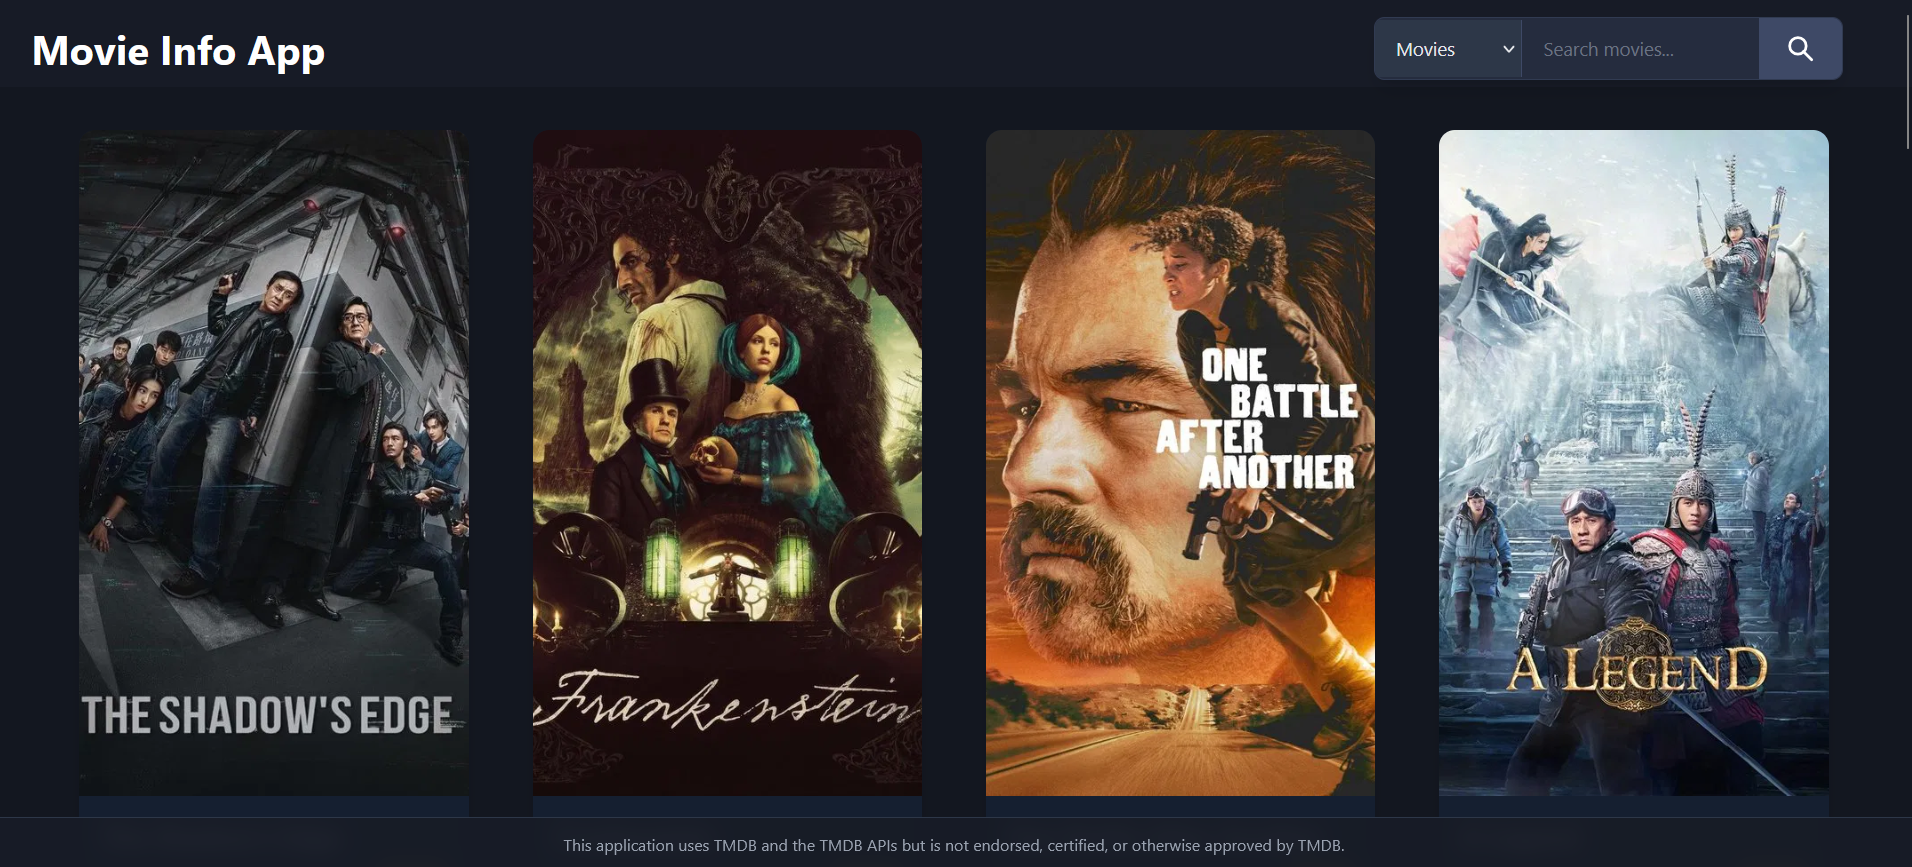
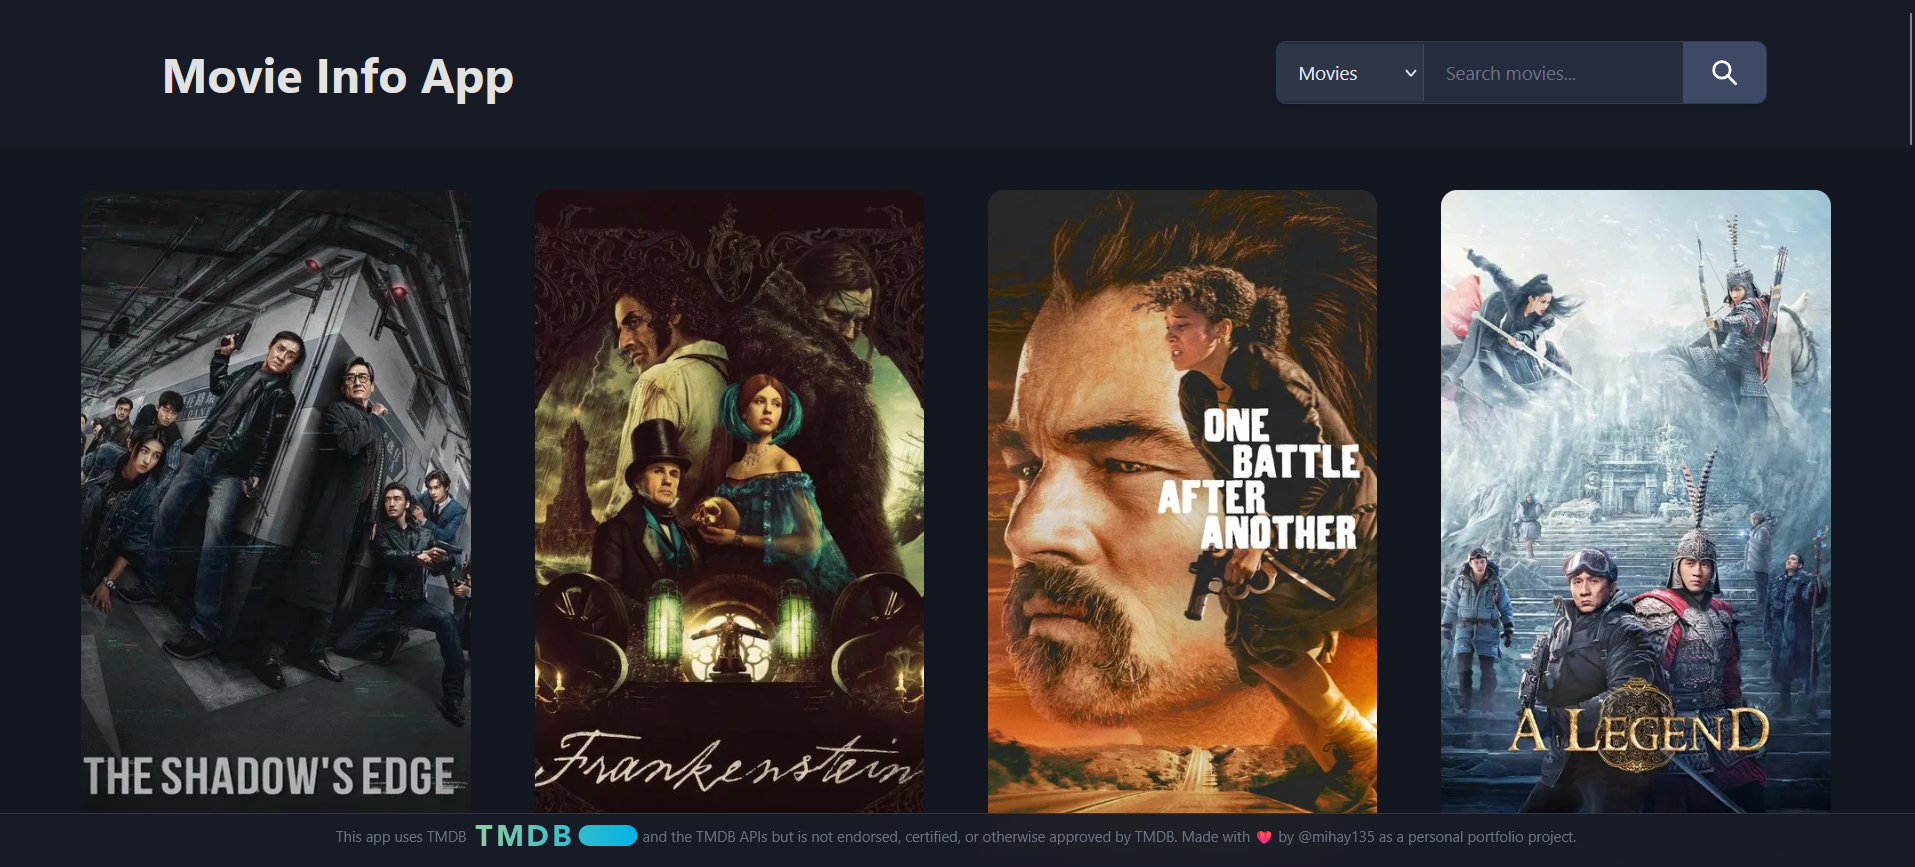
Update Screenshots, Fix Navbar on Mobile landscape, New Pagination Component
Update Screenshots with newer versions of footer and navbar.
Fix Navbar on Mobile landscape to show with bigger width.
New Pagination Component that extrapolates the code from MovieCardsContainter.
Added TMDB logo to footer to comply with API Terms of use.

diff --git a/src/components/MovieCardsContainer.tsx b/src/components/MovieCardsContainer.tsx
@@ -4,6 +4,7 @@ import MovieCard from "./MovieCard";
 import MovieModal from "./MovieModal";
 import axios from "axios";
 import type { TMDBMovie, TMDBShow, TMDBResponse } from "../types/tmdb";
+import Pagination from "./Pagination";
 
 // Bearer token loaded from .env
 const TMDB_BEARER_TOKEN = import.meta.env.VITE_TMDB_BEARER_TOKEN;
@@ -119,64 +120,6 @@ export default function MovieCardsContainer({
           {selectedItem && <MovieModal item={selectedItem} onClose={() => setSelectedItem(null)} />}
         </>
       )}
-    </div>
-  );
-}
-
-//PAGINATION COMPONENT
-function Pagination({
-  page,
-  totalPages,
-  onPageChange,
-}: {
-  page: number;
-  totalPages: number;
-  onPageChange: (p: number) => void;
-}) {
-  const getPages = () => {
-    const delta = 2;
-    const range = [];
-    const min = Math.max(2, page - delta);
-    const max = Math.min(totalPages - 1, page + delta);
-
-    for (let i = min; i <= max; i++) range.push(i);
-    if (page - delta > 2) range.unshift("...");
-    if (page + delta < totalPages - 1) range.push("...");
-    range.unshift(1);
-    if (totalPages > 1) range.push(totalPages);
-    return range;
-  };
-
-  return (
-    <div className="flex gap-3 items-center text-white flex-wrap justify-center">
-      <button
-        onClick={() => onPageChange(page - 1)}
-        disabled={page === 1}
-        className="px-5 py-3 bg-[#252c3e] rounded-lg disabled:opacity-50 hover:bg-[#3e4966] transition"
-      >
-        ← Prev
-      </button>
-
-      {getPages().map((p, i) => (
-        <button
-          key={i}
-          onClick={() => typeof p === "number" && onPageChange(p)}
-          disabled={p === "..."}
-          className={`px-4 py-3 rounded-lg min-w-12 ${
-            p === page ? "bg-[#3e4966] font-bold" : p === "..." ? "cursor-default" : "bg-[#252c3e] hover:bg-[#3e4966]"
-          } transition`}
-        >
-          {p}
-        </button>
-      ))}
-
-      <button
-        onClick={() => onPageChange(page + 1)}
-        disabled={page === totalPages}
-        className="px-5 py-3 bg-[#252c3e] rounded-lg disabled:opacity-50 hover:bg-[#3e4966] transition"
-      >
-        Next →
-      </button>
     </div>
   );
 }

diff --git a/src/components/Pagination.tsx b/src/components/Pagination.tsx
@@ -1,0 +1,58 @@
+import type { FC } from "react";
+
+interface PaginationProps {
+  page: number;
+  totalPages: number;
+  onPageChange: (page: number) => void;
+}
+
+const Pagination: FC<PaginationProps> = ({ page, totalPages, onPageChange }) => {
+  const getPages = () => {
+    const delta = 2;
+    const range: (number | string)[] = [];
+    const min = Math.max(2, page - delta);
+    const max = Math.min(totalPages - 1, page + delta);
+
+    for (let i = min; i <= max; i++) range.push(i);
+    if (page - delta > 2) range.unshift("...");
+    if (page + delta < totalPages - 1) range.push("...");
+    range.unshift(1);
+    if (totalPages > 1) range.push(totalPages);
+    return range;
+  };
+
+  return (
+    <div className="flex gap-3 items-center text-white flex-wrap justify-center">
+      <button
+        onClick={() => onPageChange(page - 1)}
+        disabled={page === 1}
+        className="px-5 py-3 bg-[#252c3e] rounded-lg disabled:opacity-50 hover:bg-[#3e4966] transition"
+      >
+        Prev
+      </button>
+
+      {getPages().map((p, i) => (
+        <button
+          key={i}
+          onClick={() => typeof p === "number" && onPageChange(p)}
+          disabled={p === "..."}
+          className={`px-4 py-3 rounded-lg min-w-12 transition ${
+            p === page ? "bg-[#3e4966] font-bold" : p === "..." ? "cursor-default" : "bg-[#252c3e] hover:bg-[#3e4966]"
+          }`}
+        >
+          {p}
+        </button>
+      ))}
+
+      <button
+        onClick={() => onPageChange(page + 1)}
+        disabled={page === totalPages}
+        className="px-5 py-3 bg-[#252c3e] rounded-lg disabled:opacity-50 hover:bg-[#3e4966] transition"
+      >
+        Next
+      </button>
+    </div>
+  );
+};
+
+export default Pagination;

diff --git a/src/components/Footer.tsx b/src/components/Footer.tsx
@@ -3,12 +3,28 @@ import type { ReactElement } from "react";
 
 export default function Footer(): ReactElement {
   return (
-    <div className="fixed bottom-0 left-0 right-0 z-40 bg-[#171b26]/95 backdrop-blur-sm border-t border-[#2d3748]">
-      <div className="px-4 py-3 text-center">
-        <p className="text-[12px] leading-tight text-gray-400 max-w-full mx-auto px-2">
-          This application uses TMDB and the TMDB APIs but is not endorsed, certified, or otherwise approved by TMDB.
-        </p>
-      </div>
-    </div>
+    <footer className=" mt-12 py-2 px-2 text-center text-gray-500 text-[11px] fixed bottom-0 left-0 right-0 z-40 bg-[#171b26]/95 backdrop-blur-sm border-t border-[#2d3748]">
+      <p className="mb-2">
+        This app uses{" "}
+        <a
+          href="https://www.themoviedb.org/"
+          target="_blank"
+          rel="noopener noreferrer"
+          className="inline-flex items-center gap-1.5 hover:text-cyan-400 transition"
+        >
+          TMDB
+          <img
+            src="https://www.themoviedb.org/assets/2/v4/logos/v2/blue_short-8e7b30f73a4020692ccca9c88bafe5dcb6f8a62a4c6bc55cd9ba82bb2cd95f6c.svg"
+            alt="TMDB Logo"
+            className="h-4 inline-block"
+          />
+        </a>{" "}
+        and the TMDB APIs but is not endorsed, certified, or otherwise approved by TMDB. Made with ❤ by{" "}
+        <a href="https://github.com/mihay135" className="hover:text-white transition">
+          @mihay135
+        </a>{" "}
+        as a personal portfolio project.
+      </p>
+    </footer>
   );
 }

diff --git a/src/components/Navbar.tsx b/src/components/Navbar.tsx
@@ -1,6 +1,5 @@
 import type { ReactElement } from "react";
 import NavbarTitle from "./NavbarTitle";
-import FillerDiv from "./FillerDiv";
 import NavbarSearch from "./NavbarSearch";
 
 interface NavbarProps {
@@ -10,15 +9,17 @@ interface NavbarProps {
 
 export default function Navbar({ onSearch, onHomeClick }: NavbarProps): ReactElement {
   return (
-    <div className="md:pt-2 w-full bg-[#171b26] sticky top-0 z-50 flex flex-col sm:flex-row items-center justify-between px-4 py-3 sm:py-0 sm:h-[10vh] gap-6 sm:gap-0">
-      <div className="w-full sm:w-auto flex justify-between sm:justify-start items-center">
-        <NavbarTitle onHomeClick={onHomeClick} />
-        <div className="sm:hidden" />
+    <header className="py-6 w-full bg-[#171b26] sticky top-0 z-10">
+      <div className="max-w-7xl mx-auto px-4 sm:px-6 lg:px-8">
+        <div className="flex flex-col sm:flex-row sm:items-center sm:justify-between gap-6">
+          {/* App Title*/}
+          <NavbarTitle onHomeClick={onHomeClick} />
+          {/* Search Bar*/}
+          <div className="w-full sm:w-full md:w-auto md:max-w-md lg:max-w-lg xl:max-w-xl">
+            <NavbarSearch onSearch={onSearch} />
+          </div>
+        </div>
       </div>
-      <div className="w-full sm:w-[25%] sm:ml-10 lg:ml-[55%]">
-        <NavbarSearch onSearch={onSearch} />
-      </div>
-      <FillerDiv />
-    </div>
+    </header>
   );
 }

diff --git a/src/components/NavbarTitle.tsx b/src/components/NavbarTitle.tsx
@@ -4,10 +4,10 @@ interface NavbarTitleProps {
 
 export default function NavbarTitle({ onHomeClick }: NavbarTitleProps) {
   return (
-    <div className="p-3 ">
+    <div className="p-3">
       <button
         onClick={onHomeClick}
-        className="text-2xl md:text-3xl font-bold text-white hover:text-gray-200 transition cursor-pointer"
+        className="text-3xl md:text-4xl font-bold text-[#e2e2e2] hover:text-white hover:brightness-110 hover:text-shadow-[#d8d8d8] hover:text-shadow-3xs transition cursor-pointer"
         title="Movie Info App - Click to go home"
       >
         Movie Info App
